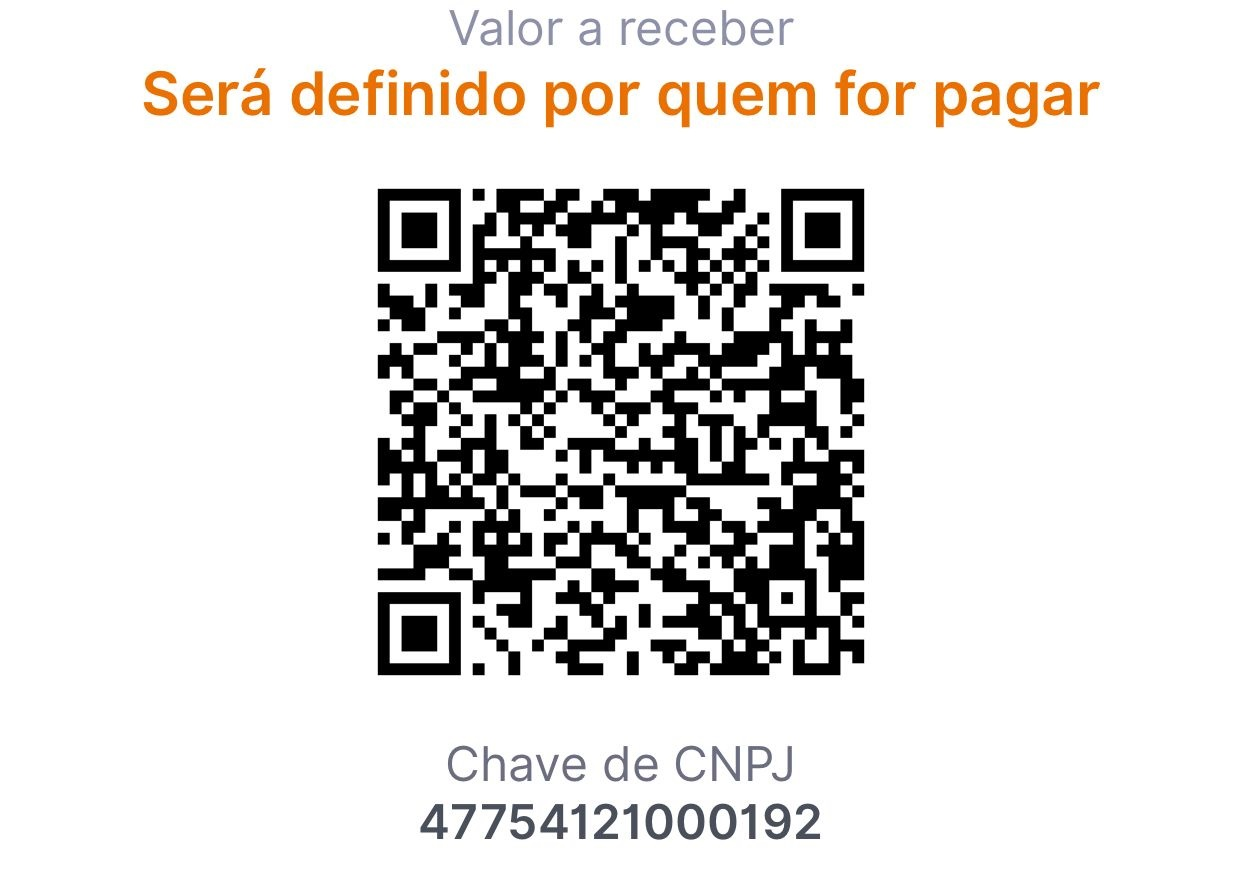
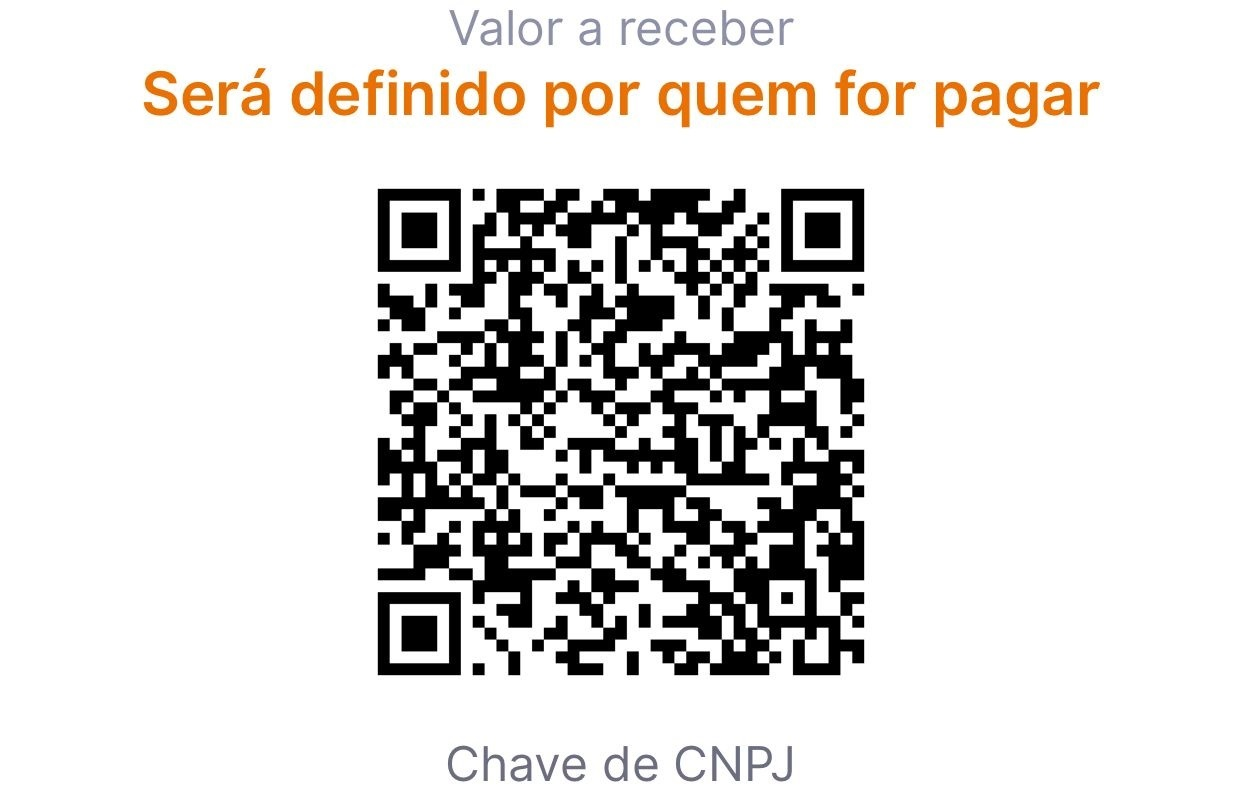
commit update

Changed region(s): [[0.306, 0.2105, 0.7037, 0.9925], [0.0918, 0.0602, 0.8873, 0.1805], [0.3671, 0.0, 0.6425, 0.0602]]

diff --git a/provedores.html b/provedores.html
@@ -9,60 +9,65 @@
 <p style="text-align: center"><img src="botao_provedores.png" width="996" height="83" alt=""/></p>
 <table border="1" cellspacing="0" cellpadding="0" align="center">
   <tr>
+    <td align="center" valign="middle" style="text-align: center"><p>Apple<br>
+    <img src="provedores_apple.png" width="72" height="60"></p></td>
+    <td align="center" valign="middle" style="font-size: 24px"><span style="font-size: 24px; font-weight: bold;">lawenforcement@apple.com&nbsp;----&nbsp;alac_police_requests@apple.com</span></td>
+  </tr>
+  <tr>
     <td width="264" align="center" valign="middle" style="text-align: center"><p><img border="0" width="98" height="21" src="provedores_clip_image002.jpg"></p></td>
-    <td width="651" align="center" valign="middle" style="font-size: 24px"><p><strong>&nbsp;</strong><strong>abuse@4shared.com</strong></a><strong> </strong></p></td>
+    <td width="692" align="center" valign="middle" style="font-size: 24px"><p><strong>&nbsp;</strong><strong>abuse@4shared.com</strong></a><strong> </strong></p></td>
   </tr>
   <tr>
     <td width="264" rowspan="2" align="center" valign="middle" style="text-align: center"><p align="center">  <img border="0" width="70" height="27" src="provedores_clip_image006.jpg"></p></td>
-    <td width="651" align="center" valign="middle" style="font-size: 24px"><p align="center"><strong>intimauol@uolinc.com</strong></a></p></td>
+    <td width="692" align="center" valign="middle" style="font-size: 24px"><p align="center"><strong>intimauol@uolinc.com</strong></a></p></td>
   </tr>
   <tr>
-    <td width="651"><p align="center" style="font-size: 24px"><strong>(11) 2540-3633</strong> </p></td>
+    <td width="692"><p align="center" style="font-size: 24px"><strong>(11) 2540-3633</strong> </p></td>
   </tr>
   <tr>
     <td width="264" align="center" valign="middle" style="text-align: center"><p><img border="0" width="106" height="27" src="provedores_clip_image008.jpg"></p></td>
-    <td width="651" align="center" valign="middle" style="font-size: 24px"><p align="center"><strong>legal@dropbox.com</strong></a></p></td>
+    <td width="692" align="center" valign="middle" style="font-size: 24px"><p align="center"><strong>legal@dropbox.com</strong></a></p></td>
   </tr>
   <tr>
     <td width="264" rowspan="2" align="center" valign="middle" style="text-align: center"><p><img border="0" width="89" height="30" src="provedores_clip_image010.png"></p></td>
-    <td width="651" align="center" valign="middle" style="font-size: 24px"><p align="center"><strong>Plataforma: https://lers.google.com/</strong><strong> </strong></p></td>
+    <td width="692" align="center" valign="middle" style="font-size: 24px"><p align="center"><strong>Plataforma: https://lers.google.com/</strong><strong> </strong></p></td>
   </tr>
   <tr>
-    <td width="651"><p align="center"><span style="font-size: 24px"><strong>lis-latam@google.com</strong></a><strong></strong></span> </p></td>
+    <td width="692"><p align="center"><span style="font-size: 24px"><strong>lis-latam@google.com</strong></a><strong></strong></span> </p></td>
   </tr>
   <tr>
     <td width="264" rowspan="2" align="center" valign="middle" style="text-align: center"><p><img border="0" width="30" height="31" src="provedores_clip_image012.jpg"></p></td>
-    <td width="651" align="center" valign="middle" style="font-size: 24px"><p align="center"><strong>juridico@igcorp.com.br</strong></a><strong> </strong></p></td>
+    <td width="692" align="center" valign="middle" style="font-size: 24px"><p align="center"><strong>juridico@igcorp.com.br</strong></a><strong> </strong></p></td>
   </tr>
   <tr>
-    <td width="651"><p align="center"><strong style="font-size: 24px">jurídico@ig.com</strong></a></p></td>
+    <td width="692"><p align="center"><strong style="font-size: 24px">jurídico@ig.com</strong></a></p></td>
   </tr>
   <tr>
     <td width="264" rowspan="3" align="center" valign="middle" style="text-align: center"><p><img border="0" width="110" height="26" src="provedores_clip_image014.jpg"></p></td>
-    <td width="651" align="center" valign="middle" style="font-size: 24px"><p align="center"><strong>Portal: https://leportal.microsoft.com/home</strong><strong> </strong></p></td>
+    <td width="692" align="center" valign="middle" style="font-size: 24px"><p align="center"><strong>Portal: https://leportal.microsoft.com/home</strong><strong> </strong></p></td>
   </tr>
   <tr>
-    <td width="651"><p align="center"><strong style="font-size: 24px">Emergência: </strong><span style="font-size: 24px"><strong>lealert@microsoft.com</strong></a></span></p></td>
+    <td width="692"><p align="center"><strong style="font-size: 24px">Emergência: </strong><span style="font-size: 24px"><strong>lealert@microsoft.com</strong></a></span></p></td>
   </tr>
   <tr>
-    <td width="651"><p align="center"><strong style="font-size: 24px">lelatam@microsoft.com</strong></a></p></td>
+    <td width="692"><p align="center"><strong style="font-size: 24px">lelatam@microsoft.com</strong></a></p></td>
   </tr>
   <tr>
     <td width="264" align="center" valign="middle" style="text-align: center"><p><img border="0" width="91" height="32" src="provedores_clip_image016.jpg"></p></td>
-    <td width="651" align="center" valign="middle" style="font-size: 24px"><p><strong>&nbsp;</strong><strong>ouvidoria@terra.com.br</strong></a> </p></td>
+    <td width="692" align="center" valign="middle" style="font-size: 24px"><p><strong>&nbsp;</strong><strong>ouvidoria@terra.com.br</strong></a> </p></td>
   </tr>
   <tr>
     <td width="264" rowspan="4" align="center" valign="middle"><p style="text-align: center"><img border="0" width="117" height="33" src="provedores_clip_image018.jpg"></p></td>
-    <td width="651" align="center" valign="middle" style="font-size: 24px"><p align="center"><strong>br-legalpoc@yahoo-inc.com</strong></a></p></td>
+    <td width="692" align="center" valign="middle" style="font-size: 24px"><p align="center"><strong>br-legalpoc@yahoo-inc.com</strong></a></p></td>
   </tr>
   <tr>
-    <td width="651"><p align="center"><strong style="font-size: 24px">br-legalpoc@oath.com</strong></a> </p></td>
+    <td width="692"><p align="center"><strong style="font-size: 24px">br-legalpoc@oath.com</strong></a> </p></td>
   </tr>
   <tr>
-    <td width="651"><p align="center"><strong style="font-size: 24px; font-weight: bold;">lawenforcement@teamaol.com</strong></a> </p></td>
+    <td width="692"><p align="center"><strong style="font-size: 24px; font-weight: bold;">lawenforcement@teamaol.com</strong></a> </p></td>
   </tr>
   <tr>
-    <td width="651"><p align="center" style="font-size: 18px; font-weight: bold;">Oath do Brasil Internet Ltda, situada na Av. Brigadeiro Faria Lima, 3600    – <br>
+    <td width="692"><p align="center" style="font-size: 18px; font-weight: bold;">Oath do Brasil Internet Ltda, situada na Av. Brigadeiro Faria Lima, 3600    – <br>
     9º andar, São Paulo – SP    – 04538-132 </p></td>
   </tr>
 </table>

diff --git a/index.html b/index.html
@@ -89,85 +89,57 @@
   <table width="1150" border="1">
   <tbody>
     <tr>
-      <td colspan="2" align="center" bgcolor="#CBF1C8"><p><strong style="color: #19491D; font-size: 48px; font-weight: bold; font-family: Cambria, 'Hoefler Text', 'Liberation Serif', Times, 'Times New Roman', serif;">LISTA DE CONTATOS</strong></p>
+      <td width="1108" align="center" bgcolor="#CBF1C8"><p><strong style="color: #19491D; font-size: 48px; font-weight: bold; font-family: Cambria, 'Hoefler Text', 'Liberation Serif', Times, 'Times New Roman', serif;">LISTA DE CONTATOS</strong></p>
         <p>&nbsp;</p></td>
     </tr>
     <tr>
-      <td height="101" colspan="2" align="center" bgcolor="#CBF1C8"><p><a href="https://sistemas.anatel.gov.br/stel/consultas/ListaPrestadorasLocalidade/tela.asp?pNumServico=045" target="_parent"><img src="botao_provedores_geral.png" width="996" height="83" alt=""/></a></p>
+      <td height="101" align="center" bgcolor="#CBF1C8"><p><a href="https://sistemas.anatel.gov.br/stel/consultas/ListaPrestadorasLocalidade/tela.asp?pNumServico=045" target="_parent"><img src="botao_provedores_geral.png" width="996" height="83" alt=""/></a></p>
         <p>&nbsp;</p></td>
     </tr>
     <tr>
-      <td height="101" colspan="2" align="center" bgcolor="#CBF1C8"><p><a href="operadoras.html"><img src="botao_operadoras.png" width="996" height="83" alt=""/></a></p>
+      <td height="101" align="center" bgcolor="#CBF1C8"><p><a href="operadoras.html"><img src="botao_operadoras.png" width="996" height="83" alt=""/></a></p>
         <p>&nbsp;</p></td>
     </tr>
     <tr>
-      <td height="101" colspan="2" align="center" bgcolor="#CBF1C8"><p><a href="banco.html"><img src="botao_bancos.png" width="996" height="83" alt=""/></a></p>
+      <td height="101" align="center" bgcolor="#CBF1C8"><p><a href="banco.html"><img src="botao_bancos.png" width="996" height="83" alt=""/></a></p>
         <p>&nbsp;</p></td>
     </tr>
     <tr>
-      <td height="101" colspan="2" align="center" bgcolor="#CBF1C8"><p><a href="provedores.html"><img src="botao_provedores.png" width="996" height="83" alt=""/></a></p>
+      <td height="101" align="center" bgcolor="#CBF1C8"><p><a href="provedores.html"><img src="botao_provedores.png" width="996" height="83" alt=""/></a></p>
         <p>&nbsp;</p></td>
     </tr>
     <tr>
-      <td height="101" colspan="2" align="center" bgcolor="#CBF1C8"><p><a href="redesocial.html"><img src="botao_redessociais.png" width="996" height="83" alt=""/></a></p>
+      <td height="101" align="center" bgcolor="#CBF1C8"><p><a href="redesocial.html"><img src="botao_redessociais.png" width="996" height="83" alt=""/></a></p>
         <p>&nbsp;</p></td>
     </tr>
     <tr>
-      <td height="101" colspan="2" align="center" bgcolor="#CBF1C8"><p><a href="apps.html"><img src="botao_apps.png" width="996" height="83" alt=""/></a></p>
+      <td height="101" align="center" bgcolor="#CBF1C8"><p><a href="apps.html"><img src="botao_apps.png" width="996" height="83" alt=""/></a></p>
         <p>&nbsp;</p></td>
     </tr>
     <tr>
-      <td height="101" colspan="2" align="center" bgcolor="#CBF1C8"><p><a href="hospedagem.html"><img src="botao_hospedagem.png" width="996" height="83" alt=""/></a></p>
+      <td height="101" align="center" bgcolor="#CBF1C8"><p><a href="hospedagem.html"><img src="botao_hospedagem.png" width="996" height="83" alt=""/></a></p>
         <p>&nbsp;</p></td>
     </tr>
     <tr>
-      <td height="101" colspan="2" align="center" bgcolor="#CBF1C8"><p><a href="sexual.html"><img src="botao_sexo.png" width="996" height="83" alt=""/></a></p>
+      <td height="101" align="center" bgcolor="#CBF1C8"><p><a href="sexual.html"><img src="botao_sexo.png" width="996" height="83" alt=""/></a></p>
         <p>&nbsp;</p></td>
     </tr>
     <tr>
-      <td height="101" colspan="2" align="center" bgcolor="#CBF1C8"><h1><a href="telefones.html"><img src="botao_telefones.png" width="996" height="83" alt=""/></a></h1>
+      <td height="101" align="center" bgcolor="#CBF1C8"><h1><a href="telefones.html"><img src="botao_telefones.png" width="996" height="83" alt=""/></a></h1>
         <p>&nbsp;</p></td>
       </tr>
-    <tr>
-      <td nowrap="nowrap" bgcolor="#99CA91" style="font-size: 30px">AIRBNB</td>
-      <td align="center" nowrap="nowrap" bgcolor="#B0B9F0" style="font-size: 28px">dpo@airbnb.com</td>
-    </tr>
-    <tr>
-      <td nowrap="nowrap" bgcolor="#99CA91" style="font-size: 30px">AMAZON</td>
-      <td align="center" nowrap="nowrap" bgcolor="#B0B9F0" style="font-size: 28px"><a href="ler.amazon.com/us">ler.amazon.com/us</a></td>
-    </tr>
-    <tr>
-      <td width="325" nowrap="nowrap" bgcolor="#99CA91" style="font-size: 30px">APPLE </td>
-      <td width="783" align="center" nowrap="nowrap" bgcolor="#B0B9F0" style="font-size: 28px"> lawenforcement@apple.com&nbsp;----&nbsp;alac_police_requests@apple.com</td>
-    </tr>
-    <tr>
-      <td nowrap="nowrap" bgcolor="#99CA91" style="font-size: 30px">BOOKING</td>
-      <td align="center" nowrap="nowrap" bgcolor="#B0B9F0" style="font-size: 28px">customer.service@booking.com</td>
-    </tr>
-    <tr>
-      <td nowrap="nowrap" bgcolor="#99CA91" style="font-size: 30px">CORREIOS</td>
-      <td align="center" nowrap="nowrap" bgcolor="#B0B9F0" style="font-size: 28px">peouvidoria@correios.com.br</td>
-    </tr>
-    <tr>
-      <td nowrap="nowrap" bgcolor="#99CA91" style="font-size: 30px">LOCAWEB</td>
-      <td align="center" nowrap="nowrap" bgcolor="#B0B9F0" style="font-size: 28px">inbox.juridico@locaweb.com.br</td>
-    </tr>
-    <tr>
-      <td nowrap="nowrap" bgcolor="#99CA91" style="font-size: 30px">PAYBRAS PAGAMENT.</td>
-      <td align="center" nowrap="nowrap" bgcolor="#B0B9F0" style="font-size: 28px">Contato@paybras.com.br</td>
-    </tr>
 	  
   </tbody>
 </table>
-  <p style="font-size: 36px; text-align: center;">
   <center>
-  <table width="1150" border="0">
+    <table width="1150" border="0">
     <tbody>
       <tr align="center" valign="middle">
-        <td><span style="font-size: 36px; text-align: center;">Ajude e incentive este projeto doando qualquer valor!</span></td>
+        <td><span style="font-size: 40px; text-align: center;">Ajude e incentive este projeto doando qualquer valor!</span></td>
       </tr>
       <tr align="center" valign="middle">
         <td><p><img src="qrcode_donation.jpeg" width="600" height="422" alt=""/></p>
+          <p style="font-size: 45px; font-weight: bold;">47754121000192</p>
           <p>&nbsp;</p></td>
       </tr>
       <tr align="center" valign="middle">

diff --git a/banco.html b/banco.html
@@ -141,6 +141,10 @@
     <td width="777"><p align="center" style="font-size: 24px"><strong>(11) 3064-1314</strong> </p></td>
   </tr>
   <tr>
+    <td align="center" valign="middle"><img src="banco_paybras.png" width="116" height="53"></td>
+    <td align="center" valign="middle" style="font-size: 24px"><span style="font-size: 24px; font-weight: bold;">Contato@paybras.com.br</span></td>
+  </tr>
+  <tr>
     <td width="217" align="center" valign="middle"><p align="center"><strong>PAGAR.ME</strong><strong> </strong></p>      <p><img border="0" width="126" height="34" src="banco_clip_image048.gif" alt="Pagar.me Status"></p></td>
     <td width="777" align="center" valign="middle" style="font-size: 24px"><p align="center"><strong>relacionamento@pagar.me</strong></a></p></td>
   </tr>
